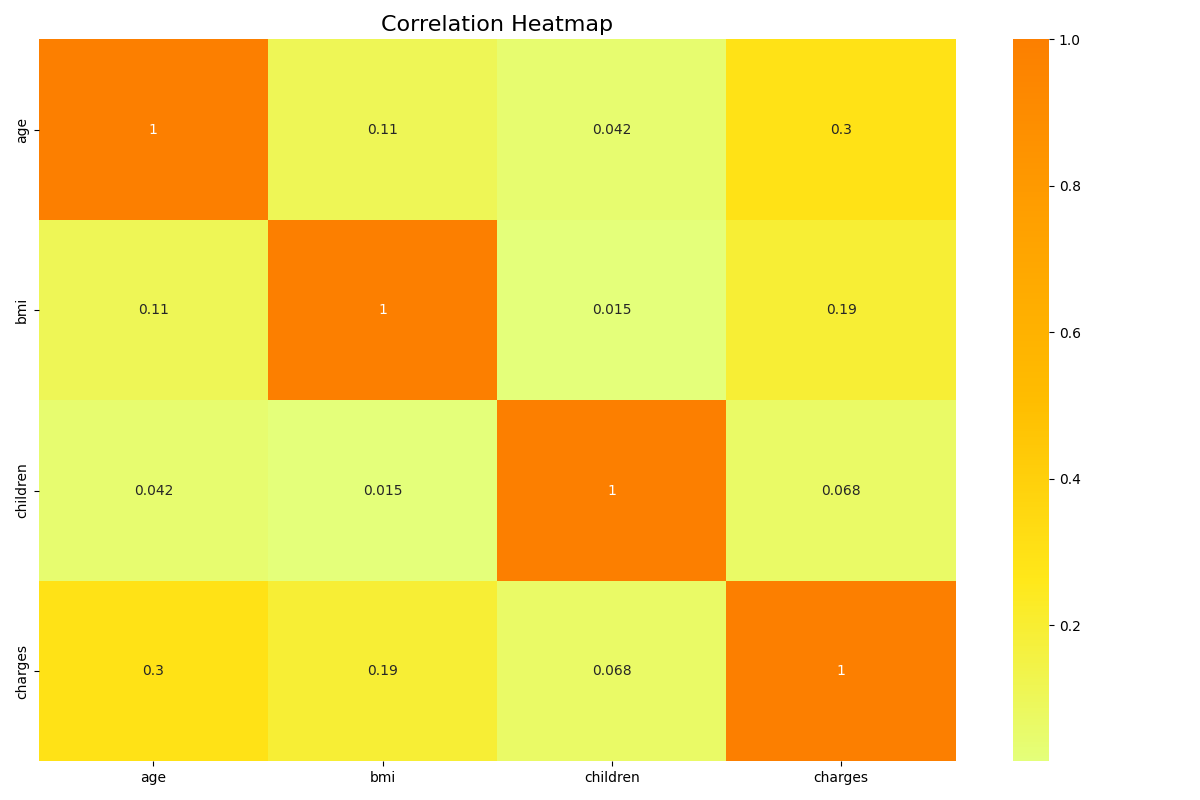
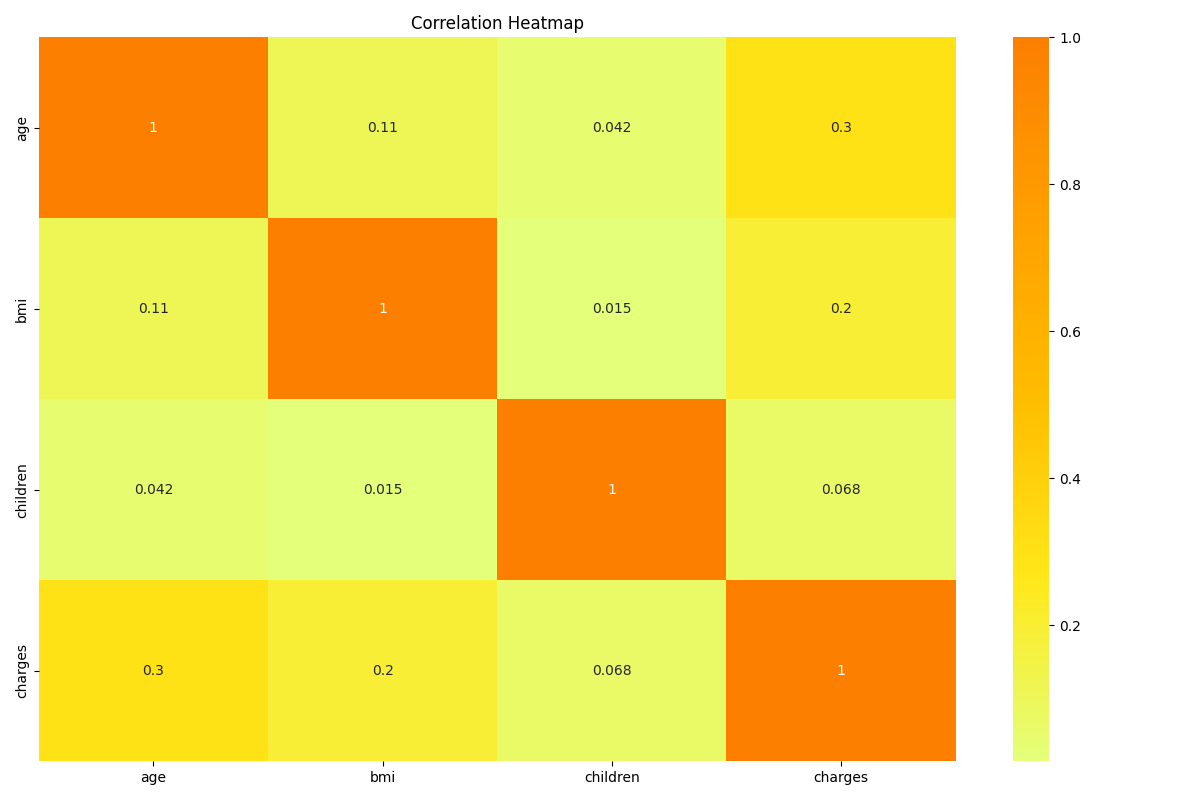
01_03 update

diff --git a/src/01_03/01_03_Finish_visualize.py b/src/01_03/01_03_Finish_visualize.py
@@ -1,7 +1,5 @@
-# Load necessary libraries
 import pandas as pd
 import numpy as np
-from sklearn.model_selection import train_test_split
 from sklearn.impute import SimpleImputer
 import matplotlib.pyplot as plt
 import seaborn as sns
@@ -14,41 +12,66 @@ print("First 15 rows of the dataset:")
 print(data.head(15))
 
 # Handling Missing Values
-# Check for missing values
-print("\nMissing values before imputation:")
-print(data.isnull().sum())
 
-# Fill missing values using mean imputation
+# Option 3: Fill missing values with mean (SimpleImputer)
+data_option3 = data.copy()
 imputer = SimpleImputer(strategy="mean")
-data["bmi"] = imputer.fit_transform(data[["bmi"]])
+data_option3["bmi"] = imputer.fit_transform(data_option3[["bmi"]])
+print("\nOption 3: Fill missing values with mean (SimpleImputer)")
+print(data_option3.isnull().sum())
 
-# Check for missing values after imputation
-print("\nMissing values after imputation:")
-print(data.isnull().sum())
+# Visualization
 
-# Visualization: Age vs Charges
-plt.figure(figsize=(12, 8))
-sns.lmplot(
-    x="age", y="charges", hue="smoker", data=data, palette="coolwarm",
-    height=6, aspect=2, facet_kws={"legend_out": False}  # Avoid deprecated warning
-)
-plt.title("Age vs Charges (Smokers vs Non-Smokers)", fontsize=16)
-plt.xlabel("Age", fontsize=12)
-plt.ylabel("Charges", fontsize=12)
+# Create subplots to analyze distributions
+fig, ax = plt.subplots(4, 2, figsize=(12, 24))
 
-# Adjust legend position
-plt.legend(title="Smoker", loc="center left", bbox_to_anchor=(1.05, 0.5), fontsize=12)
+# Distribution of numerical columns
+sns.histplot(data['charges'], kde=True, ax=ax[0, 0], color="blue")
+ax[0, 0].set_title("Distribution of Charges (Right Skewed)")
 
+sns.histplot(data['age'], kde=True, ax=ax[0, 1], color="green")
+ax[0, 1].set_title("Distribution of Age")
+
+sns.histplot(data['bmi'], kde=True, ax=ax[1, 0], color="purple")
+ax[1, 0].set_title("Distribution of BMI")
+
+sns.histplot(data['children'], kde=False, ax=ax[1, 1], color="orange")
+ax[1, 1].set_title("Number of Children")
+
+# Count plots for categorical columns
+sns.countplot(x=data['sex'], ax=ax[2, 0], hue=None)
+ax[2, 0].set_title("Count of Male vs Female")
+
+sns.countplot(x=data['smoker'], ax=ax[2, 1], hue=None)
+ax[2, 1].set_title("Count of Smokers vs Non-Smokers")
+
+sns.countplot(x=data['region'], ax=ax[3, 0], hue=None)
+ax[3, 0].set_title("Count of Regions")
+
+# Add spacing between plots
+plt.tight_layout()
+plt.savefig("output/01_03_distribution_analysis.png")
+plt.close()
+
+# Visualizing Skewness with Pairplots
+sns.pairplot(data, diag_kind="kde", plot_kws={'alpha': 0.6})
+plt.savefig("output/01_03_pairplot.png")
+plt.close()
+
+# Scatterplot: Smokers vs Non-Smokers on Age vs Charges
+sns.lmplot(x="age", y="charges", hue="smoker", data=data, palette="muted", height=7)
+plt.title("Age vs Charges (Smokers vs Non-Smokers)")
 plt.tight_layout()
 plt.savefig("output/01_03_age_vs_charges.png")
 plt.close()
 
-# Visualization: Correlation Heatmap
-plt.figure(figsize=(12, 8))
+# Correlation Heatmap
+# Select only numeric columns for correlation
 numeric_data = data.select_dtypes(include=[np.number])
 corr = numeric_data.corr()
+plt.figure(figsize=(12, 8))
 sns.heatmap(corr, cmap="Wistia", annot=True)
-plt.title("Correlation Heatmap", fontsize=16)
+plt.title("Correlation Heatmap")
 plt.tight_layout()
 plt.savefig("output/01_03_correlation_heatmap.png")
 plt.close()

diff --git a/src/01_03/01_03_Finish.py b/src/01_03/01_03_Finish.py
@@ -1,10 +1,6 @@
-# Load necessary libraries
 import pandas as pd
 import numpy as np
-from sklearn.model_selection import train_test_split
 from sklearn.impute import SimpleImputer
-import matplotlib.pyplot as plt
-import seaborn as sns
 
 # Load the dataset
 data = pd.read_csv("input/insurance.csv")
@@ -14,15 +10,23 @@ print("First 15 rows of the dataset:")
 print(data.head(15))
 
 # Handling Missing Values
-# Check for missing values
-count_nan = data.isnull().sum()  # The number of missing values for each column
-print("\nMissing values before imputation:")
-print(count_nan[count_nan > 0])
 
-# Fill missing values
-data['bmi'] = data['bmi'].fillna(data['bmi'].mean())
+# Option 1: Drop the entire column with missing values
+data_option1 = data.copy()
+data_option1.drop('bmi', axis=1, inplace=True)
+print("\nOption 1: Drop the 'bmi' column")
+print(data_option1.isnull().sum())
 
-# Check for missing values after imputation
-count_nan = data.isnull().sum()  # The number of missing values for each column
-print("\nMissing values after imputation:")
-print(count_nan[count_nan > 0])
+# Option 2: Drop rows with missing values
+data_option2 = data.copy()
+data_option2.dropna(inplace=True)
+data_option2.reset_index(drop=True, inplace=True)
+print("\nOption 2: Drop rows with missing values")
+print(data_option2.isnull().sum())
+
+# Option 3: Fill missing values with mean (SimpleImputer)
+data_option3 = data.copy()
+imputer = SimpleImputer(strategy="mean")
+data_option3["bmi"] = imputer.fit_transform(data_option3[["bmi"]])
+print("\nOption 3: Fill missing values with mean (SimpleImputer)")
+print(data_option3.isnull().sum())

diff --git a/src/01_03/01_03_Begin.py b/src/01_03/01_03_Begin.py
@@ -1,7 +1,6 @@
 # Load necessary libraries
 import pandas as pd
 import numpy as np
-from sklearn.model_selection import train_test_split
 from sklearn.impute import SimpleImputer
 import matplotlib.pyplot as plt
 import seaborn as sns
@@ -14,12 +13,20 @@ print("First 15 rows of the dataset:")
 print(data.head(15))
 
 # Handling Missing Values
-# Check for missing values
 
-# Fill missing values using mean imputation
+# TODO: Check how many values are missing (NaN)
 
-# Check for missing values after imputation
+# Option 1: Drop the entire column with missing values
+# TODO: Add code to drop the 'bmi' column and verify
 
-# Visualization: Age vs Charges
+# Option 2: Drop rows with missing values
+# TODO: Add code to drop rows with missing values and verify
 
-# Visualization: Correlation Heatmap
+# Option 3: Fill missing values with mean (SimpleImputer)
+# TODO: Add code to fill missing values in the 'bmi' column using SimpleImputer
+
+# Visualization
+
+# TODO: Create a scatterplot (Age vs. Charges)
+
+# TODO: Create a correlation heatmap
